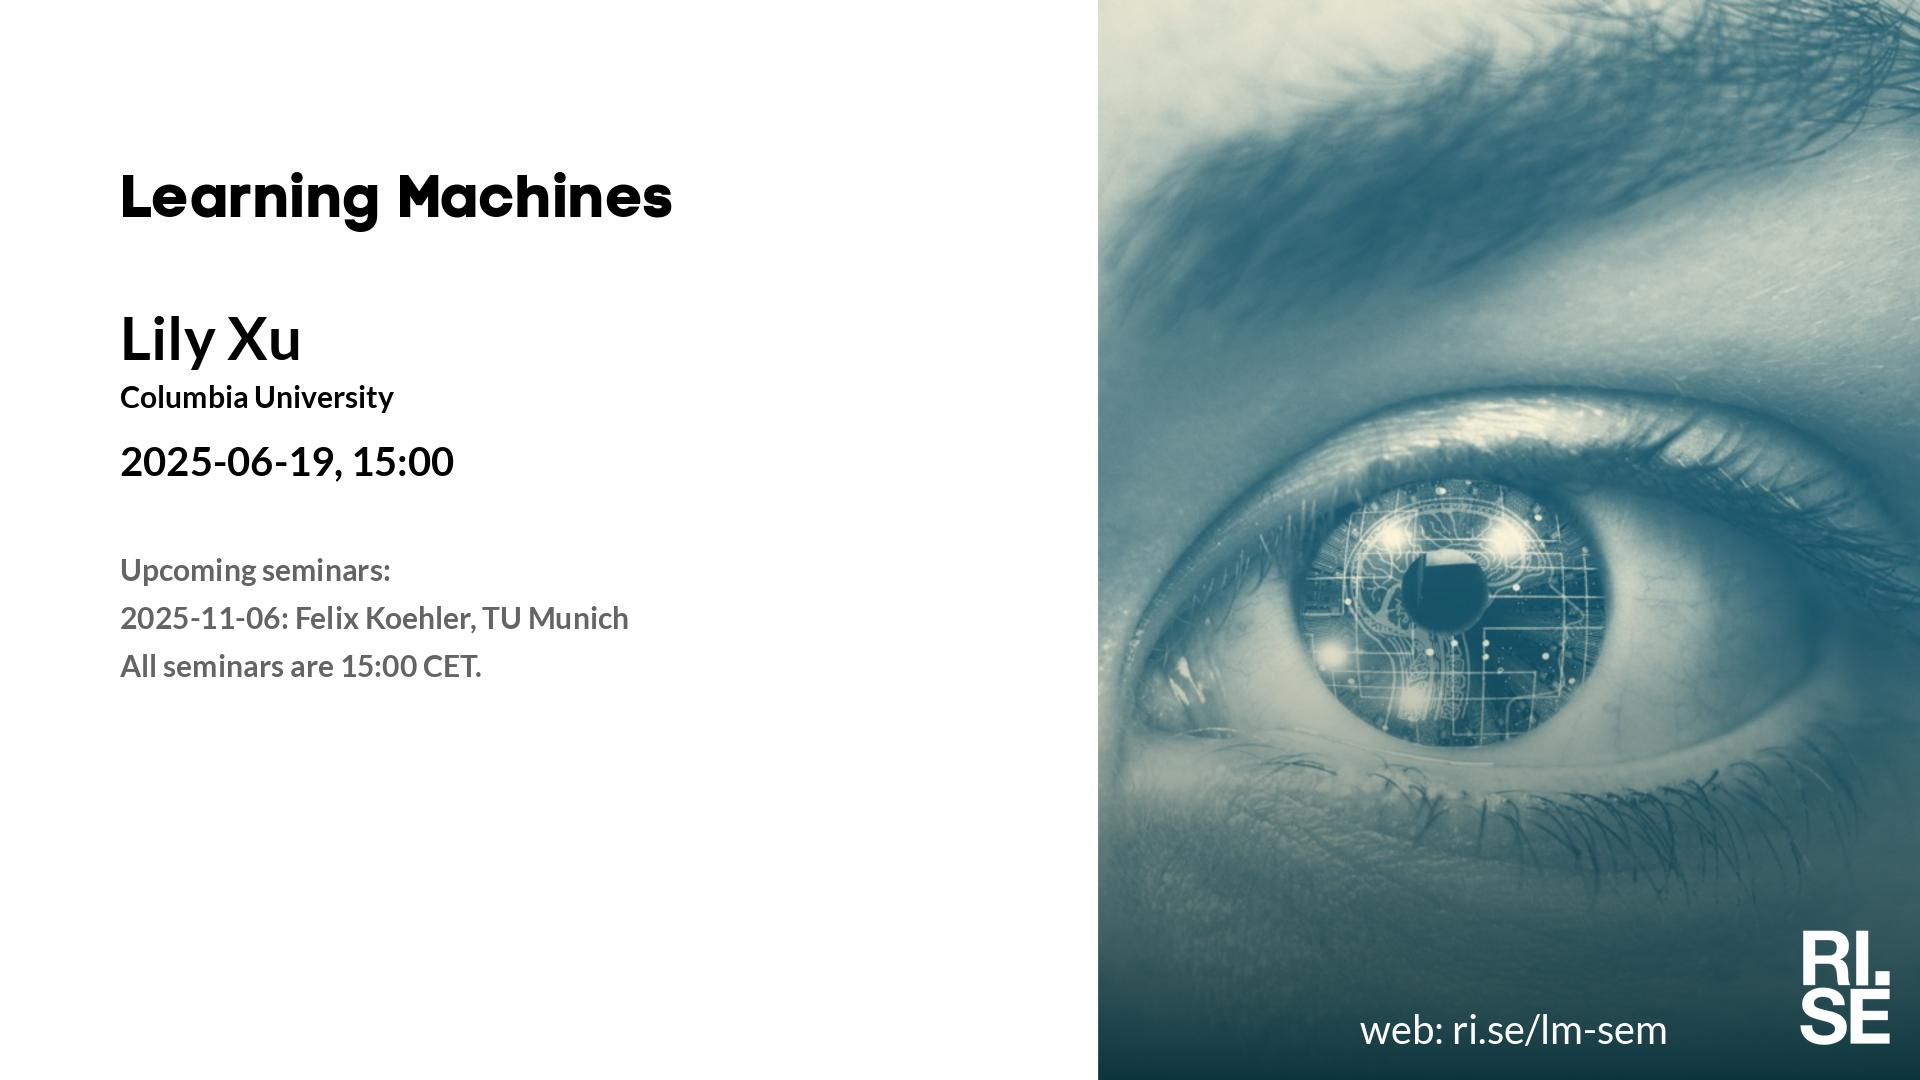
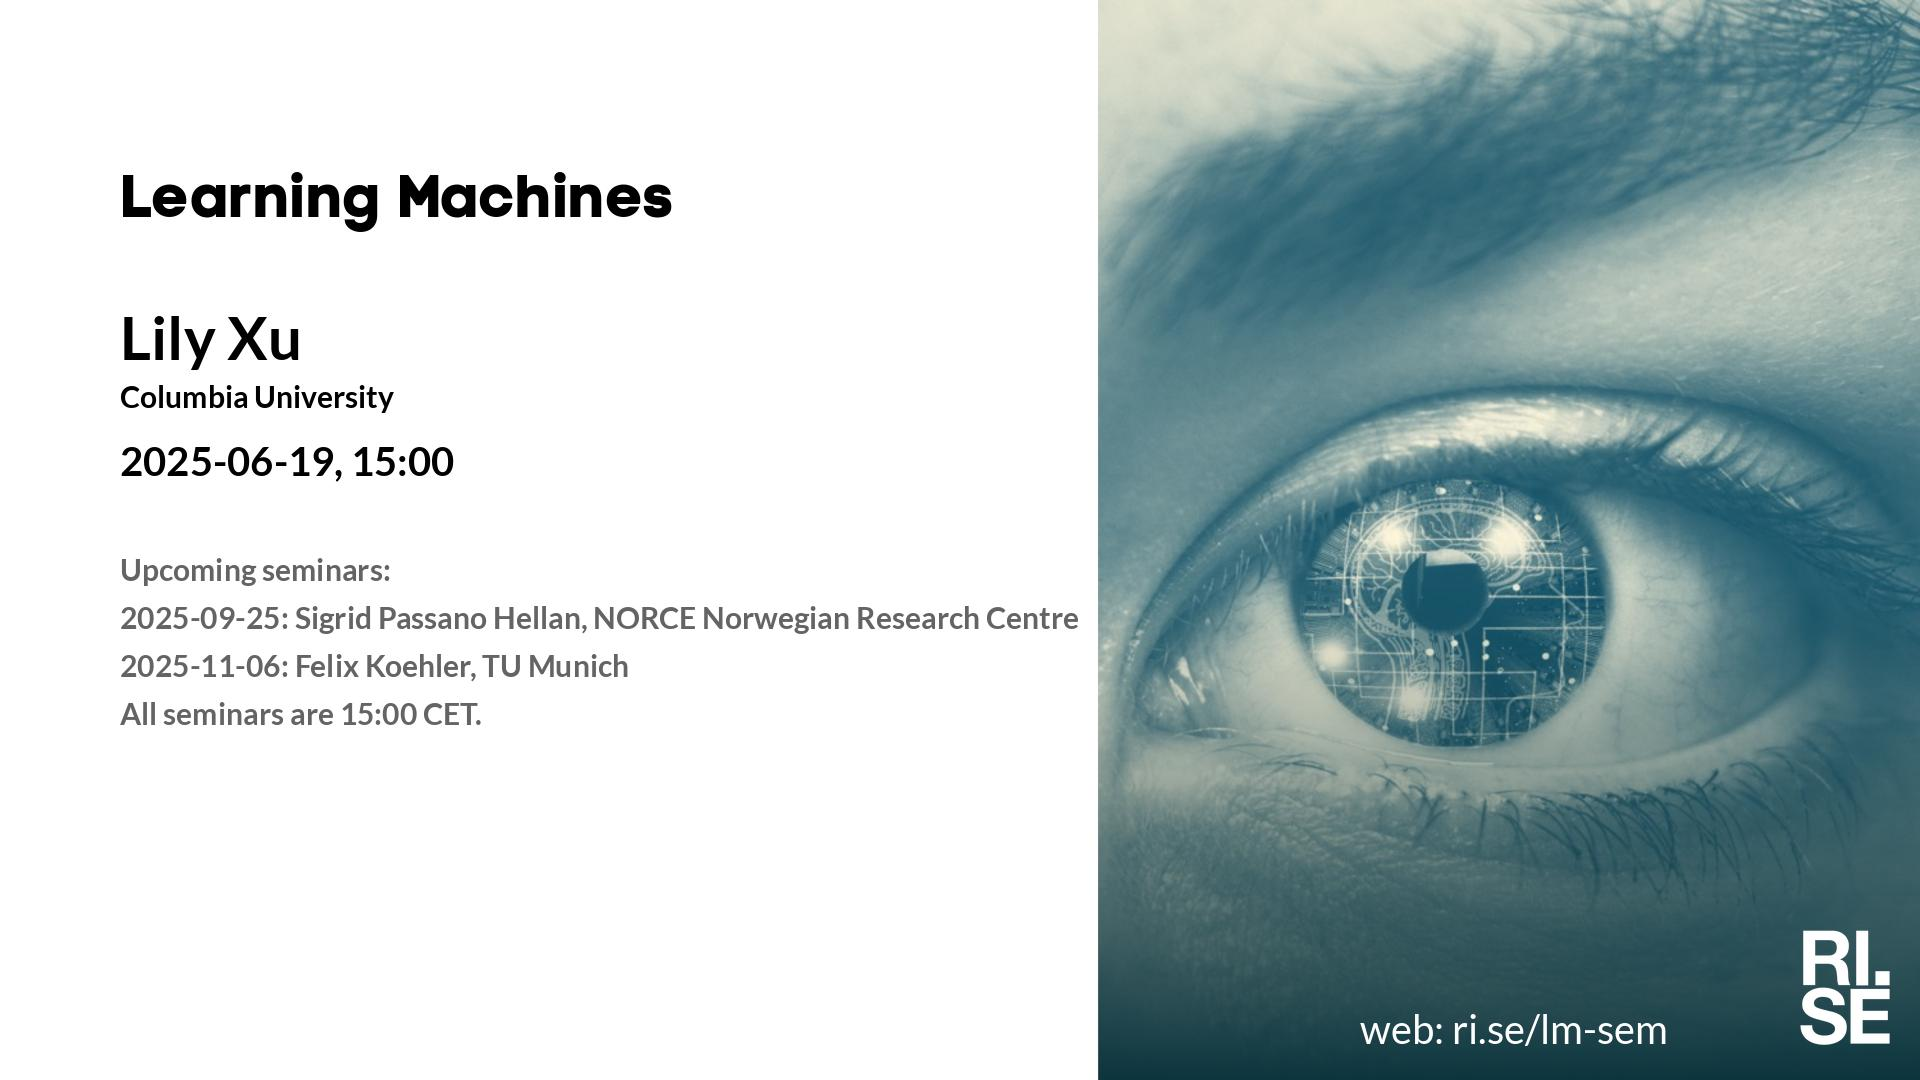
Updated plan on web site.

Changed region(s): [[0.0625, 0.55, 0.5625, 0.6722]]

diff --git a/lm/2025.md b/lm/2025.md
@@ -34,7 +34,7 @@ table {border-collapse: collapse;}
 |  2025-06-19  |  [Lily Xu, Columbia University](2025-06-19.md)  |    |  [social media ](2025-06-19-social-media-lily-xu.jpg)  |  [meeting backdrop ](2025-06-19-meeting-backdrop-lily-xu.jpg)  |  [youtube thumbnail ](2025-06-19-youtube-thumbnail-lily-xu.jpg)  |  S~~TABP~~  |
 | <span style="color:purple"> 2025-08-28 </span> | <span style="color:purple"> *Up for grabs!!!* </span> | <span style="color:purple">  </span> | <span style="color:purple">  </span> | <span style="color:purple">  </span> | <span style="color:purple">  </span> | <span style="color:purple"> ~~STABP~~ </span> |
 | <span style="color:grey"> 2025-09-11 </span> | <span style="color:grey"> Natalie E. ? </span> | <span style="color:grey">  </span> | <span style="color:grey">  </span> | <span style="color:grey">  </span> | <span style="color:grey">  </span> | <span style="color:grey"> S~~TABP~~ </span> |
-| <span style="color:purple"> 2025-09-25 </span> | <span style="color:purple"> *Up for grabs!!!* </span> | <span style="color:purple">  </span> | <span style="color:purple">  </span> | <span style="color:purple">  </span> | <span style="color:purple">  </span> | <span style="color:purple"> ~~STABP~~ </span> |
+|  2025-09-25  |  [Sigrid Passano Hellan, NORCE Norwegian Research Centre](2025-09-25.md)  |    |  [social media ](2025-09-25-social-media-sigrid-passano-hellan.jpg)  |  [meeting backdrop ](2025-09-25-meeting-backdrop-sigrid-passano-hellan.jpg)  |  [youtube thumbnail ](2025-09-25-youtube-thumbnail-sigrid-passano-hellan.jpg)  |  S~~TABP~~  |
 | <span style="color:purple"> 2025-10-09 </span> | <span style="color:purple"> *Up for grabs!!!* </span> | <span style="color:purple">  </span> | <span style="color:purple">  </span> | <span style="color:purple">  </span> | <span style="color:purple">  </span> | <span style="color:purple"> ~~STABP~~ </span> |
 | <span style="color:purple"> 2025-10-23 </span> | <span style="color:purple"> *Up for grabs!!!* </span> | <span style="color:purple">  </span> | <span style="color:purple">  </span> | <span style="color:purple">  </span> | <span style="color:purple">  </span> | <span style="color:purple"> ~~STABP~~ </span> |
 |  2025-11-06  |  [Felix Koehler, TU Munich](2025-11-06.md)  |    |  [social media ](2025-11-06-social-media-felix-koehler.jpg)  |  [meeting backdrop ](2025-11-06-meeting-backdrop-felix-koehler.jpg)  |  [youtube thumbnail ](2025-11-06-youtube-thumbnail-felix-koehler.jpg)  |  S~~TABP~~  |

diff --git a/lm/index.md b/lm/index.md
@@ -34,7 +34,7 @@ table {border-collapse: collapse;}
 |  2025-06-19  |  [Lily Xu, Columbia University](2025-06-19.md)  |    |  [social media ](2025-06-19-social-media-lily-xu.jpg)  |  [meeting backdrop ](2025-06-19-meeting-backdrop-lily-xu.jpg)  |  [youtube thumbnail ](2025-06-19-youtube-thumbnail-lily-xu.jpg)  |  S~~TABP~~  |
 | <span style="color:purple"> 2025-08-28 </span> | <span style="color:purple"> *Up for grabs!!!* </span> | <span style="color:purple">  </span> | <span style="color:purple">  </span> | <span style="color:purple">  </span> | <span style="color:purple">  </span> | <span style="color:purple"> ~~STABP~~ </span> |
 | <span style="color:grey"> 2025-09-11 </span> | <span style="color:grey"> Natalie E. ? </span> | <span style="color:grey">  </span> | <span style="color:grey">  </span> | <span style="color:grey">  </span> | <span style="color:grey">  </span> | <span style="color:grey"> S~~TABP~~ </span> |
-| <span style="color:purple"> 2025-09-25 </span> | <span style="color:purple"> *Up for grabs!!!* </span> | <span style="color:purple">  </span> | <span style="color:purple">  </span> | <span style="color:purple">  </span> | <span style="color:purple">  </span> | <span style="color:purple"> ~~STABP~~ </span> |
+|  2025-09-25  |  [Sigrid Passano Hellan, NORCE Norwegian Research Centre](2025-09-25.md)  |    |  [social media ](2025-09-25-social-media-sigrid-passano-hellan.jpg)  |  [meeting backdrop ](2025-09-25-meeting-backdrop-sigrid-passano-hellan.jpg)  |  [youtube thumbnail ](2025-09-25-youtube-thumbnail-sigrid-passano-hellan.jpg)  |  S~~TABP~~  |
 | <span style="color:purple"> 2025-10-09 </span> | <span style="color:purple"> *Up for grabs!!!* </span> | <span style="color:purple">  </span> | <span style="color:purple">  </span> | <span style="color:purple">  </span> | <span style="color:purple">  </span> | <span style="color:purple"> ~~STABP~~ </span> |
 | <span style="color:purple"> 2025-10-23 </span> | <span style="color:purple"> *Up for grabs!!!* </span> | <span style="color:purple">  </span> | <span style="color:purple">  </span> | <span style="color:purple">  </span> | <span style="color:purple">  </span> | <span style="color:purple"> ~~STABP~~ </span> |
 |  2025-11-06  |  [Felix Koehler, TU Munich](2025-11-06.md)  |    |  [social media ](2025-11-06-social-media-felix-koehler.jpg)  |  [meeting backdrop ](2025-11-06-meeting-backdrop-felix-koehler.jpg)  |  [youtube thumbnail ](2025-11-06-youtube-thumbnail-felix-koehler.jpg)  |  S~~TABP~~  |

diff --git a/lm/statistics-2025.md b/lm/statistics-2025.md
@@ -10,11 +10,11 @@ title: Learning Machines Statistics 2025
 
 
 
-## 16 speakers
+## 17 speakers
 
-Abdul Shaamala, Abdulhakim Abdi, Amal Nammouchi, Atakan Aral, Beici Liang, Benjamin Cretois, Felix Koehler, Ghjulia Sialelli, John Martinsson, Lily Xu, María J. Molina, Newton Mwai Kinyanjui, Oriol Nieto, Oscar Täckström, Peter Dueben, Sherrie Wang
+Abdul Shaamala, Abdulhakim Abdi, Amal Nammouchi, Atakan Aral, Beici Liang, Benjamin Cretois, Felix Koehler, Ghjulia Sialelli, John Martinsson, Lily Xu, María J. Molina, Newton Mwai Kinyanjui, Oriol Nieto, Oscar Täckström, Peter Dueben, Sherrie Wang, Sigrid Passano Hellan
 
-## 16 affiliations
+## 17 affiliations
 
-Adobe, Chalmers University of Technology, Columbia University, ETH Zurich, Epidemic sound, European Centre for Medium-Range Weather Forecasts, Karlstad University and AfriClimate AI, Lund University, MIT, Norwegian Institute for Nature Research, Queensland University of Technology, RISE and Lund University, Sana Labs, TU Munich, University of Maryland, University of Vienna
+Adobe, Chalmers University of Technology, Columbia University, ETH Zurich, Epidemic sound, European Centre for Medium-Range Weather Forecasts, Karlstad University and AfriClimate AI, Lund University, MIT, NORCE Norwegian Research Centre, Norwegian Institute for Nature Research, Queensland University of Technology, RISE and Lund University, Sana Labs, TU Munich, University of Maryland, University of Vienna
 

diff --git a/lm/2025-09-25.md b/lm/2025-09-25.md
@@ -7,7 +7,7 @@ Welcome to this week's Learning Machines seminar.
 
 **Title:** N/A
 
-**Speaker:** Lily Xu, Columbia University
+**Speaker:** Sigrid Passano Hellan, NORCE Norwegian Research Centre
 
 **Abstract:** N/A
 
@@ -15,13 +15,12 @@ Welcome to this week's Learning Machines seminar.
 
 **Location:** This is an online seminar. Connect using Zoom.
 
-**Date:** 2025-06-19 15:00
+**Date:** 2025-09-25 15:00
 
-**Zoom link:** [https://rise.zoom.us/j/69691371971?pwd=ASuKwwE1AoYVnnkKzKbZvjGngRJJeK.1](https://rise.zoom.us/j/69691371971?pwd=ASuKwwE1AoYVnnkKzKbZvjGngRJJeK.1)
+**Zoom link:** [https://rise.zoom.us/j/69691371971?pwd=Ib2aP7AXfha9f1eZOrDvaik41ZMVZ3.1](https://rise.zoom.us/j/69691371971?pwd=Ib2aP7AXfha9f1eZOrDvaik41ZMVZ3.1)
 
 **Upcoming seminars:**
 
-* 2025-09-25: Sigrid Passano Hellan, NORCE Norwegian Research Centre
 * 2025-11-06: Felix Koehler, TU Munich
 * All seminars are 15:00 CET.
 
